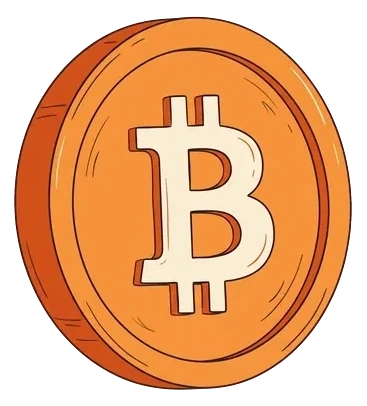
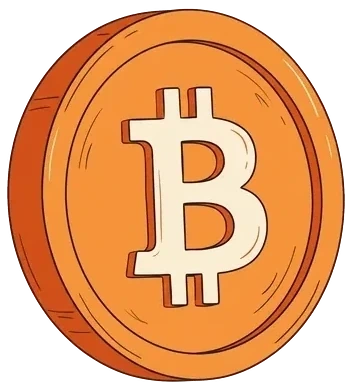
Le tre illustrazioni nuove: «Tutto» in vetrina, due in attesa
L'illustrazione della card «Tutto» (il medaglione col ₿ in mezzo
alla merce) entra col suo francobollo, e in prove.py arriva la
prova d'esistenza promessa dal cantiere della card: senza il file
la card mostrerebbe per sempre l'emoji di ripiego e sembrerebbe
quasi giusta. Con lei entrano anche «lezioni-e-corsi» e
«lavoro-e-servizi»: le categorie non esistono ancora nel catalogo,
nessuna rotta le serve e nessuna prova le esige — aspettano il
cantiere dei servizi, che parte dalla decisione sul prompt della
moderazione.

Gli originali arrivavano a 2048px e sono stati portati alla classe
delle sorelle (512, LANCZOS, q92) prima del pareggio: lo script
ritaglia e pareggia ma non ridimensiona, e un 2048 in griglia
sarebbe stato un macigno da 16MB di bitmap. Niente voce SOGLIE:
il bbox e' stabile a ogni soglia, nessuna velatura. Il pareggio
sposta la mediana come dichiarato e riscrive nove sorelle (piu' i
loro francobolli); secondo giro a zero, idempotente. 4465 prove
verdi, e il giro dal vivo via CDP mostra la card «Tutto» con la
figura vera, l'anello e il peso in riga con le vicine.

Changed region(s): [[0.0, 0.0, 0.9972, 0.9846], [0.3428, 0.2154, 0.779, 0.8], [0.4986, 0.5231, 0.6856, 0.6462]]

diff --git a/prove.py b/prove.py
@@ -781,6 +781,13 @@ def prove_categorie():
     prova("la rotta delle illustrazioni ammette anche «tutto»", True,
           'SLUG_ILLUSTRAZIONI = SLUG_CATEGORIE | {"tutto"}' in _SORGENTE
           and "base not in SLUG_ILLUSTRAZIONI" in _SORGENTE)
+    # ...e il file c'e' davvero, col suo francobollo: senza, la card
+    # in testa mostrerebbe per sempre l'emoji di ripiego e sembrerebbe
+    # quasi giusta — la stessa ragione delle due prove qui sopra.
+    prova("l'illustrazione di «Tutto» esiste", True,
+          os.path.exists("assets/categorie/tutto.webp"))
+    prova("...col suo francobollo -mini", True,
+          os.path.exists("assets/categorie/tutto-mini.webp"))
 
     # Le illustrazioni devono essere TIRATE, cioe' senza margine
     # trasparente attorno (ci pensa ritaglia_categorie.py). Non e' una
